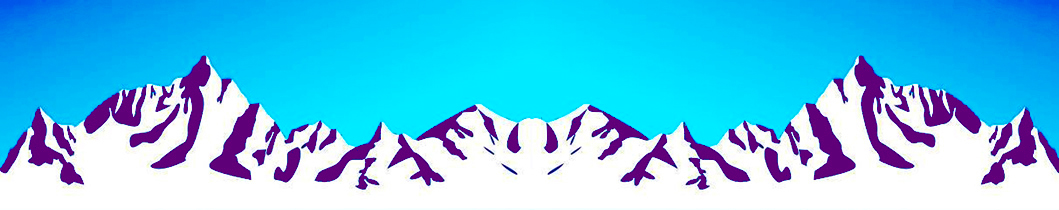
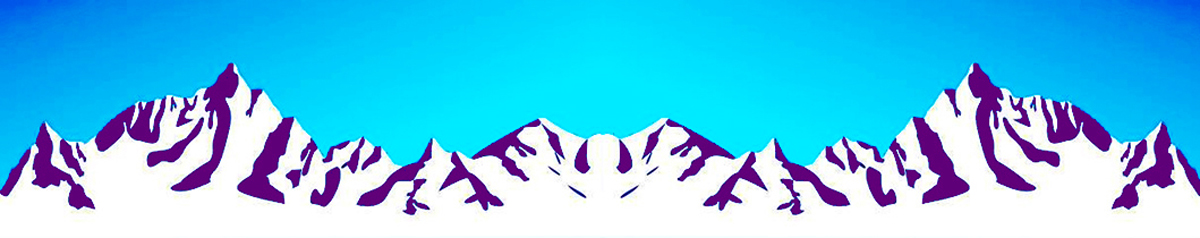
commit

diff --git a/zen-garden/cover-sample/style.css b/zen-garden/cover-sample/style.css
@@ -1,7 +1,7 @@
 body {
     background-color: darkseagreen;
-    background-image: linear-gradient(white, white, lemonchiffon, darkseagreen, darkseagreen, lemonchiffon, purple);
-    max-width: 900px;
+    background-image: linear-gradient(purple,rgb(123, 212, 247),white, lemonchiffon,darkseagreen, darkseagreen, darkseagreen, lemonchiffon, white, rgb(123, 212, 247), purple);
+    max-width: 1200px;
     margin: auto;
 }
 
